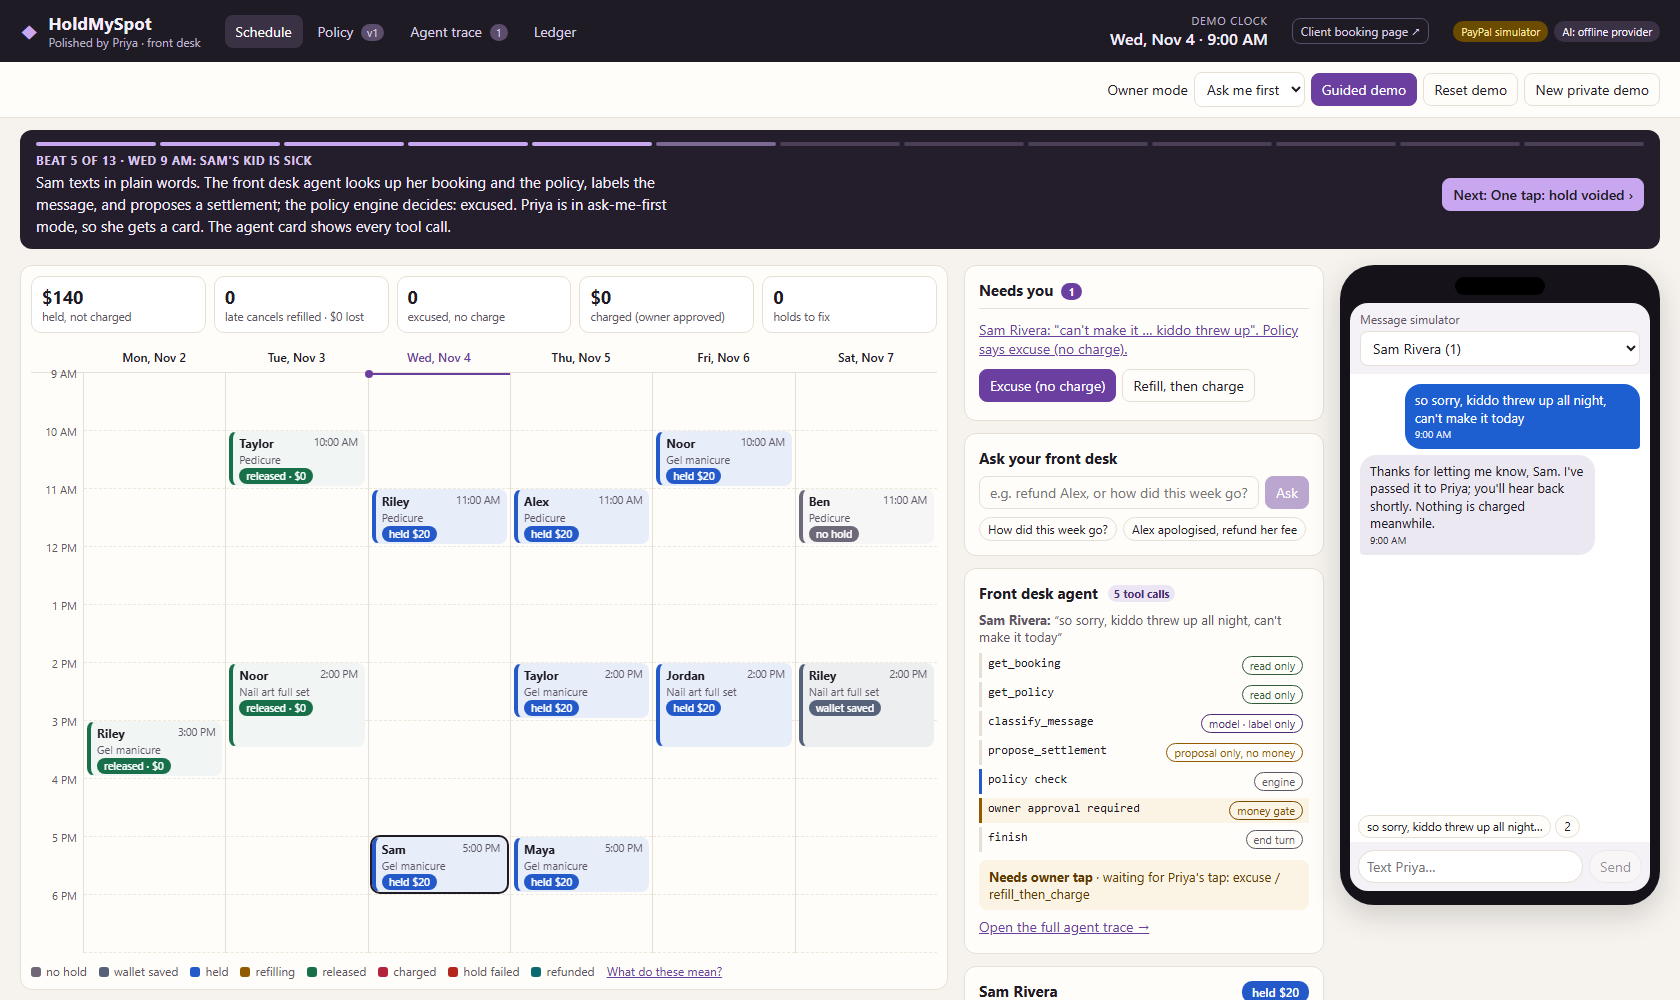
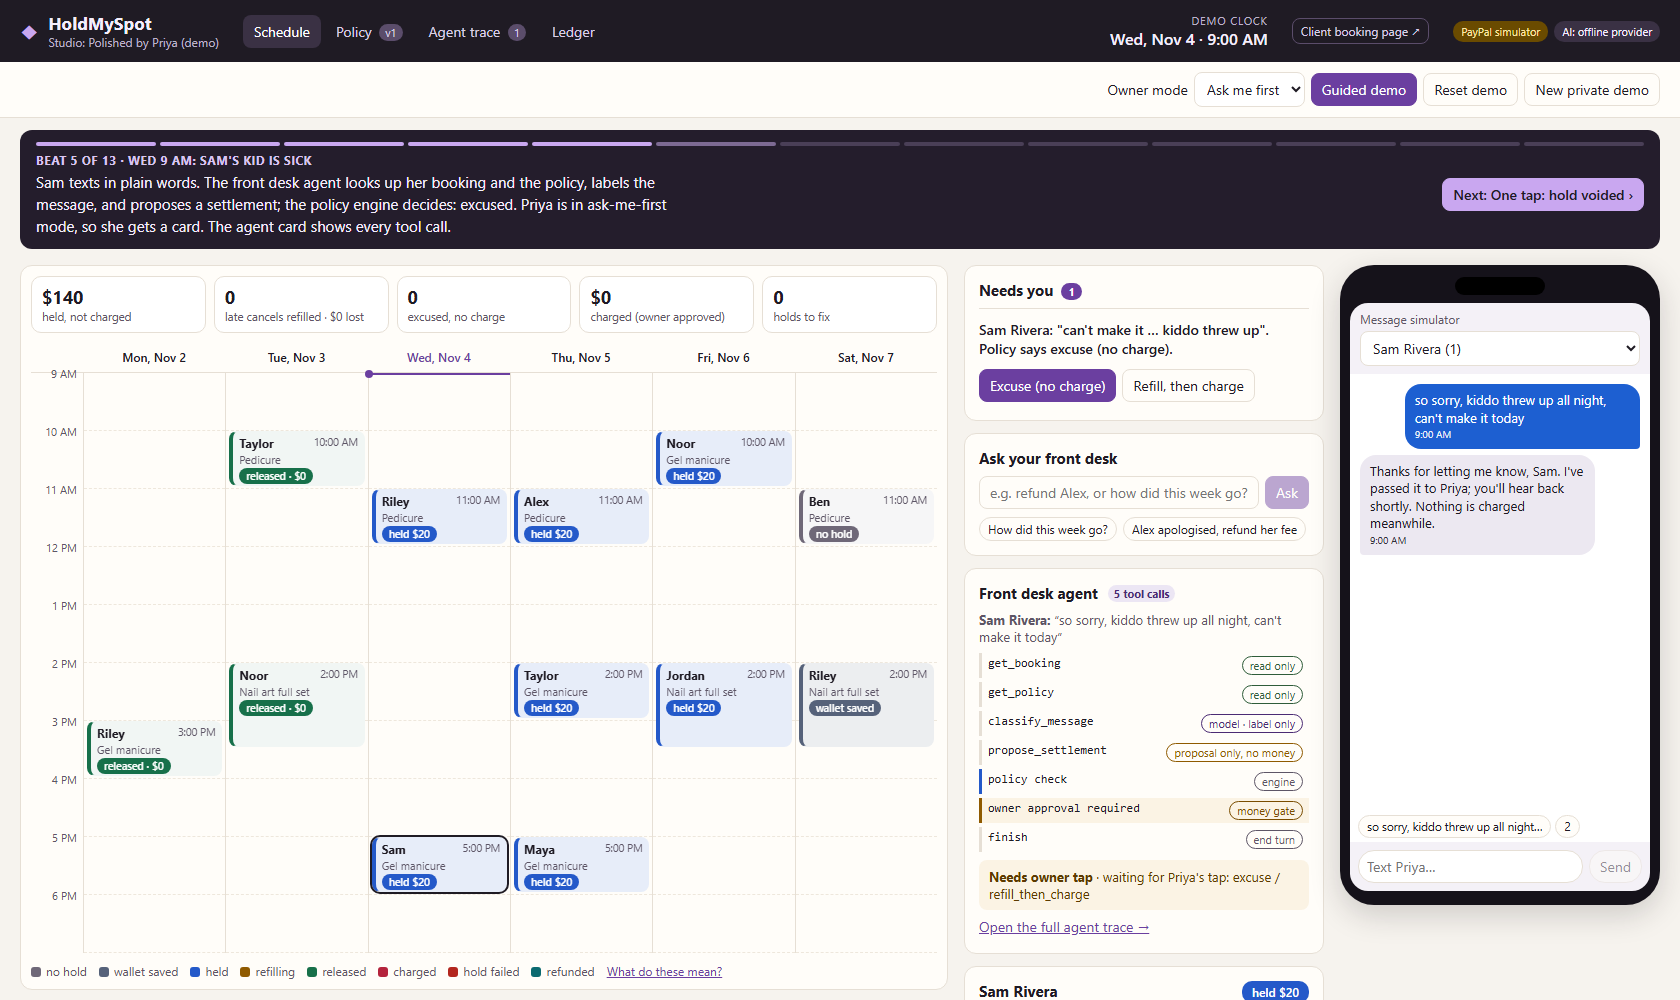
Judge fixes: ledger shows refunded bookings as refunded, closed refill claims in words, Kept (net) column with total; capture card says who didn't show and when, title in ink not link red; studio label; policy 'not set yet' excusals and live-vs-draft heading; offline provider label in trace; 'every 

Changed region(s): [[0.031, 0.0, 0.3405, 0.062], [0.5881, 0.31, 0.7738, 0.372]]

diff --git a/web/src/Ledger.tsx b/web/src/Ledger.tsx
@@ -61,11 +61,19 @@ interface Row {
   heldCents: number;
   chargedCents: number;
   refundedCents: number;
+  keptCents: number;
   authorizationId: string;
   captureId: string;
   refundId: string;
   policy: string;
   refill: string;
+}
+
+/** Booking state in words; the money outcome wins where the raw state would contradict it. */
+function bookingStateLabel(b: BookingView): string {
+  if (b.refundId) return 'refunded';
+  if (b.refillOfBookingId && b.state === 'CANCELLED_EARLY' && !b.authorizationId) return 'claim closed (no hold)';
+  return b.state.replace(/_/g, ' ').toLowerCase();
 }
 
 function toRow(b: BookingView, s: Snapshot): Row {
@@ -76,11 +84,12 @@ function toRow(b: BookingView, s: Snapshot): Row {
     start: b.start,
     client: b.clientName,
     service: b.serviceName,
-    state: b.state.replace(/_/g, ' ').toLowerCase(),
+    state: bookingStateLabel(b),
     money: b.money,
     heldCents: b.money === 'held' || b.money === 'pending-refill' ? b.holdCents : 0,
     chargedCents: charged,
     refundedCents: b.refundId ? charged : 0,
+    keptCents: b.refundId ? 0 : charged,
     authorizationId: b.authorizationId ?? '',
     captureId: b.captureId ?? '',
     refundId: b.refundId ?? '',
@@ -165,6 +174,7 @@ export function Ledger({ s, api, onSelect }: { s: Snapshot; api: Api; onSelect: 
         heldCents: rows.reduce((a, r) => a + r.heldCents, 0),
         chargedCents: rows.reduce((a, r) => a + r.chargedCents, 0),
         refundedCents: rows.reduce((a, r) => a + r.refundedCents, 0),
+        keptCents: rows.reduce((a, r) => a + r.keptCents, 0),
         authorizationId: '',
         captureId: '',
         refundId: '',
@@ -192,12 +202,13 @@ export function Ledger({ s, api, onSelect }: { s: Snapshot; api: Api; onSelect: 
             getQuickFilterText: (p) => MONEY_TEXT[p.value] ?? p.value,
           },
           { field: 'heldCents', headerName: 'Held', minWidth: 80, flex: 1, type: 'rightAligned', valueFormatter: money, filter: 'agNumberColumnFilter' },
-          { field: 'chargedCents', headerName: 'Charged', minWidth: 96, flex: 1, type: 'rightAligned', valueFormatter: money, filter: 'agNumberColumnFilter', cellClassRules: { 'cell-charged': (p) => !!p.value } },
-          { field: 'refundedCents', headerName: 'Refunded', minWidth: 104, flex: 1, type: 'rightAligned', valueFormatter: money, filter: 'agNumberColumnFilter' },
+          { field: 'chargedCents', headerName: 'Charged', minWidth: 108, flex: 1, type: 'rightAligned', valueFormatter: money, filter: 'agNumberColumnFilter', cellClassRules: { 'cell-charged': (p) => !!p.value } },
+          { field: 'refundedCents', headerName: 'Refunded', minWidth: 112, flex: 1, type: 'rightAligned', valueFormatter: money, filter: 'agNumberColumnFilter' },
+          { field: 'keptCents', headerName: 'Kept (net)', headerTooltip: 'Charged minus refunded: what the owner actually keeps', minWidth: 112, flex: 1, type: 'rightAligned', valueFormatter: (p) => (p.data?.id === 'total' ? usd(p.value ?? 0) : money(p)), filter: 'agNumberColumnFilter' },
         ],
       },
-      { field: 'state', headerName: 'Booking state', width: 132 },
-      { field: 'refill', headerName: 'Refill', width: 150 },
+      { field: 'state', headerName: 'Booking state', width: 160 },
+      { field: 'refill', headerName: 'Refill', width: 180, tooltipField: 'refill' },
       {
         headerName: 'PayPal objects behind it',
         children: [

diff --git a/web/src/App.tsx b/web/src/App.tsx
@@ -160,7 +160,7 @@ export function App() {
           </span>
           <div>
             <h1 className="brand-name">HoldMySpot</h1>
-            <div className="brand-sub">{s.business} · front desk</div>
+            <div className="brand-sub">Studio: {s.business} (demo)</div>
           </div>
         </div>
         <nav className="tabs" aria-label="Views">
@@ -797,7 +797,7 @@ function PolicyEditor({ s, api, onApproved, autoCompile = false }: { s: Snapshot
           </button>
         </div>
         {spans.length > 0 && <p className="prose-preview" dangerouslySetInnerHTML={{ __html: highlighted }} />}
-        <h3>What clients see now (v{s.policy.version})</h3>
+        <h3>Live now (v{s.policy.version}): what clients see{merged ? "; your draft is not live yet" : ""}</h3>
         <p className="summary">{s.policy.summary}</p>
       </section>
       <section className="card">
@@ -813,7 +813,7 @@ function PolicyEditor({ s, api, onApproved, autoCompile = false }: { s: Snapshot
                 <tr><td>Free cancellation</td><td>{merged.freeCancelHours}+ hours ahead</td></tr>
                 <tr><td>Late cancel fee</td><td>{usd(merged.lateCancelFeeCents)}</td></tr>
                 <tr><td>No-show fee</td><td>{usd(merged.noShowFeeCents)}</td></tr>
-                <tr><td>Excused</td><td>{merged.excusedReasons.join(', ') || 'none'} ({merged.excusalLimit.count}× / {merged.excusalLimit.months} mo)</td></tr>
+                <tr><td>Excused</td><td>{merged.excusedReasons.length ? `${merged.excusedReasons.join(', ')} (${merged.excusalLimit.count}× / ${merged.excusalLimit.months} mo)` : 'not set yet: answer the question below'}</td></tr>
                 <tr><td>Always owner-reviewed</td><td>{merged.protectedReasons.join(', ')}</td></tr>
                 <tr><td>Refill waives fee</td><td>{merged.refillWaives ? 'yes' : 'no'}</td></tr>
               </tbody>

diff --git a/server/src/scripts/gallery.ts b/server/src/scripts/gallery.ts
@@ -104,11 +104,7 @@ try {
   // 4. Agent trace: the injected create_refund call is denied.
   await next(10);
   await open(`&tab=agent&sel=${(await ids()).taylor}`, '.trace-detail');
-  await page.locator('.trace-detail').scrollIntoViewIfNeeded();
-  await take({ file: '04-agent-denied.png', n: '04', title: 'A text cannot move money', sub: 'Prompt injection reaches for create_refund: denied, not in the agent toolset' }, async () => {
-    await page.evaluate(() => document.querySelector('.trace-detail')?.scrollIntoView({ block: 'start' }));
-    await page.evaluate(() => window.scrollBy(0, -12));
-  });
+  await take({ file: '04-agent-denied.png', n: '04', title: 'A text cannot move money', sub: 'Prompt injection reaches for create_refund: denied, not in the agent toolset' });
 
   // 5. Owner approval: the no-show charge waits for her tap.
   await next(11);
@@ -118,7 +114,7 @@ try {
   // 6. AG Grid ledger after charge + refund.
   await next(13);
   await open('&tab=ledger', '.ag-row');
-  await take({ file: '06-ledger.png', n: '06', title: 'Every cent, reconciled', sub: 'AG Grid ledger: holds, captures, refunds and the PayPal ids behind them' });
+  await take({ file: '06-ledger.png', n: '06', title: 'Every cent, traced', sub: 'AG Grid ledger: holds, captures, refunds and the PayPal ids behind them' });
 
   for (const s of shots) await frame(browser, resolve(raw, s.file), s.file, s.n, s.title, s.sub);
 

diff --git a/server/src/scripts/ui-check.ts b/server/src/scripts/ui-check.ts
@@ -122,7 +122,7 @@ try {
   await desk.getByRole('button', { name: /^Ledger/ }).click();
   await desk.locator('.ag-row').first().waitFor({ timeout: 10000 });
   const ledgerText = (await desk.locator('.ledger-grid').textContent()) ?? '';
-  check(/refunded/.test(ledgerText) && /charged/.test(ledgerText) && /AUTH/.test(ledgerText), 'ledger grid lists money states and PayPal ids');
+  check(/refunded/.test(ledgerText) && /CAPTURE-/.test(ledgerText) && /AUTH/.test(ledgerText),'ledger grid lists money states and PayPal ids');
   check(/Total/.test(ledgerText), 'ledger grid has a totals row');
   await axe(desk, 'ledger (AG Grid)');
   await shot(desk, 'ledger.png');

diff --git a/server/src/engine/engine.ts b/server/src/engine/engine.ts
@@ -967,7 +967,9 @@ export class Engine {
     this.addApproval({
       kind: 'capture',
       bookingId: b.id,
-      prompt: `${this.client(b.clientId).name}'s spot wasn't refilled. Charge the fee from the hold?`,
+      prompt: b.cancelledAt
+        ? `${this.client(b.clientId).name} cancelled late (${this.slotLabel(b)}) and nobody took the spot. Charge the fee from their PayPal hold?`
+        : `${this.client(b.clientId).name} didn't show (${this.slotLabel(b)}). Nobody to refill the spot. Charge the fee from their PayPal hold?`,
       feeCents: b.cancelledAt ? lateFee : feeCents,
       options: ['charge', 'waive'],
     });

diff --git a/web/src/AgentTrace.tsx b/web/src/AgentTrace.tsx
@@ -197,7 +197,7 @@ export function AgentTraceView({ s }: { s: Snapshot }) {
               </p>
             )}
             <Gate run={current} />
-            <p className="muted small">Provider: {current.provider}. Every step is also in the audit log.</p>
+            <p className="muted small">Provider: {current.provider === 'fake' ? 'offline (deterministic stand-in for Claude)' : current.provider}. Every step is also in the audit log.</p>
           </section>
         )}
       </div>

diff --git a/server/test/pass4.test.ts b/server/test/pass4.test.ts
@@ -17,6 +17,7 @@ describe('console money chip while the no-show fee waits for the owner', () => {
     expect(cap).toBeDefined();
     expect(alex.state).toBe('PENDING_REFILL');
     expect(chip()).toBe('held');
+    expect(cap!.prompt).toMatch(/^Alex Morgan didn't show \(Thu, Nov 5 11:00 AM\)\. Nobody to refill/);
     await e.resolveApproval(cap!.id, 'charge');
     expect(chip()).toBe('captured');
   });

diff --git a/web/src/styles.css b/web/src/styles.css
@@ -427,6 +427,14 @@ textarea {
   border-top: 1px solid var(--line);
   padding: 10px 0 4px;
 }
+.approval > button.linkish {
+  color: var(--ink);
+  font-weight: 600;
+  text-decoration: none;
+}
+.approval > button.linkish:hover {
+  text-decoration: underline;
+}
 .approval.k-capture .fee {
   color: var(--danger);
   font-weight: 600;

diff --git a/README.md b/README.md
@@ -12,7 +12,7 @@
 
 1. **Refill first, fee last** (beats 7-9): a late cancel is offered to the waitlist; the slot fills only when the claimer's own PayPal hold authorizes, so the canceller pays $0.
 2. **A text cannot move money** (beat 10, *Agent trace* tab): a prompt injection makes the model reach for `create_refund`; it is denied because that tool does not exist in its toolset (offline, this attempt is a scripted red-team replay; the denial path is the same for a live model).
-3. **Every cent reconciled** (*Ledger* tab, AG Grid): each booking's PayPal authorization, capture and refund ids, every API call, and the exact Orders v2 / Payments v2 / Vault v3 request behind each step.
+3. **Every cent traced** (*Ledger* tab, AG Grid): each booking's PayPal authorization, capture and refund ids, every API call, and the exact Orders v2 / Payments v2 / Vault v3 request behind each step.
 
 > **Honest status:** payments run on a deterministic PayPal sandbox **simulator** (labelled in the UI). The real PayPal REST adapter is written and tested against recorded HTTP and its requests are previewed in the ledger; it has not yet run against the live sandbox (keys pending). The AI runs on a deterministic offline provider unless an Anthropic key is set. Built for the PayPal "Build What's Next with PayPal and AI" hackathon.
 

diff --git a/docs/DEVPOST_SUBMISSION.md b/docs/DEVPOST_SUBMISSION.md
@@ -15,7 +15,7 @@ Framed 1920x1080 images in `docs/gallery/` (regenerate with `npm run gallery`); 
 3. `03-refill.png`: Late cancel, refilled. Eli's hold declined, Chris's authorized: Maya's hold voided, $0 fee.
 4. `04-agent-denied.png`: A text cannot move money. A prompt injection reaches for `create_refund`: denied, not in the agent's toolset.
 5. `05-owner-approval.png`: Only her tap charges. Alex no-showed; the engine proposes the $20 capture and Priya decides.
-6. `06-ledger.png`: Every cent, reconciled. AG Grid ledger with the PayPal authorization, capture and refund ids.
+6. `06-ledger.png`: Every cent, traced. AG Grid ledger with the PayPal authorization, capture and refund ids.
 
 All images show the PayPal simulator and the offline AI provider (labelled in the top bar). [TODO re-shoot on the live sandbox if keys arrive.]
 
